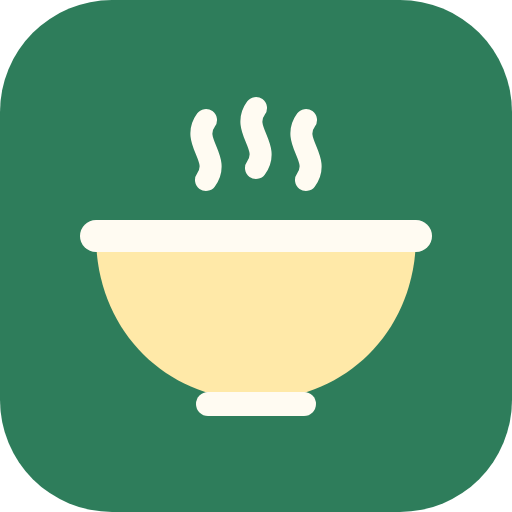
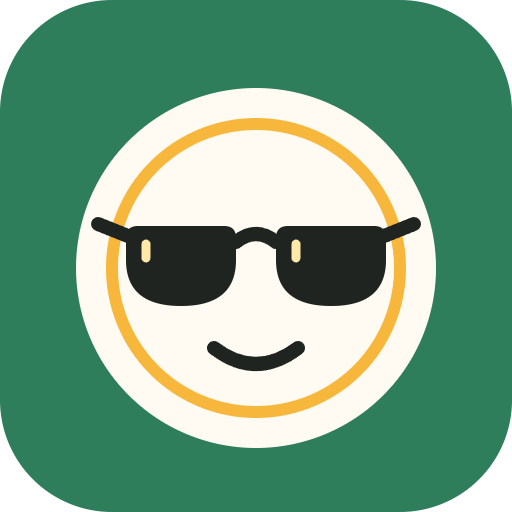
Applique le design system Coolmiam
- Jetons --border-strong, --brand-soft, --sun, --on-danger ; contours des
  champs, boutons secondaires et pastilles de type en --border-strong
- Marque coolmiam-mark.svg dans l'en-tête
- Nouveau logo : icônes PWA régénérées depuis docs/design/logo/coolmiam-icon.svg
- Ajout de docs/design (design system, logos) et section Design dans CLAUDE.md

diff --git a/src/styles.css b/src/styles.css
@@ -6,6 +6,10 @@
   --primary: #2e7d5b;
   --primary-text: #ffffff;
   --border: #cfd6d1;
+  --border-strong: #7a8780;
+  --brand-soft: #e8f3ee;
+  --sun: #f6b73c;
+  --on-danger: #ffffff;
   --danger: #c62828;
   --extra: #d32f2f;
   --focus: #1565c0;
@@ -82,6 +86,19 @@ body {
   letter-spacing: 0.02em;
 }
 
+.app-header__brand {
+  display: flex;
+  align-items: center;
+  gap: 8px;
+}
+
+.app-header__logo {
+  display: block;
+  width: 30px;
+  height: 30px;
+  flex: none;
+}
+
 .app-main {
   flex: 1;
   min-height: 0;
@@ -127,7 +144,7 @@ body {
   min-height: 44px;
   min-width: 44px;
   padding: 10px 18px;
-  border: 2px solid var(--border);
+  border: 2px solid var(--border-strong);
   border-radius: var(--radius);
   background: var(--surface);
   color: var(--text);
@@ -151,7 +168,7 @@ body {
 .btn--danger {
   background: var(--danger);
   border-color: var(--danger);
-  color: #ffffff;
+  color: var(--on-danger);
 }
 
 .btn--block {
@@ -384,7 +401,7 @@ button.meal-card {
   width: 100%;
   min-height: 44px;
   padding: 10px 12px;
-  border: 2px solid var(--border);
+  border: 2px solid var(--border-strong);
   border-radius: 10px;
   background: var(--surface);
   color: var(--text);
@@ -428,7 +445,7 @@ button.meal-card {
   align-items: center;
   min-height: 44px;
   padding: 8px 16px;
-  border: 3px solid transparent;
+  border: 3px solid var(--border-strong);
   border-radius: 999px;
   font-weight: 600;
   cursor: pointer;
@@ -565,7 +582,7 @@ button.meal-card {
   padding: 12px;
   border-left: 4px solid var(--primary);
   border-radius: 6px;
-  background: #e8f3ee;
+  background: var(--brand-soft);
 }
 
 /* ---------- Réglages ---------- */
@@ -600,7 +617,7 @@ button.meal-card {
   width: 56px;
   height: 44px;
   padding: 2px;
-  border: 2px solid var(--border);
+  border: 2px solid var(--border-strong);
   border-radius: 10px;
   background: var(--surface);
   cursor: pointer;

diff --git a/src/App.tsx b/src/App.tsx
@@ -36,7 +36,16 @@ export function App() {
   return (
     <div class="app">
       <header class="app-header">
-        <h1>Coolmiam</h1>
+        <div class="app-header__brand">
+          <img
+            class="app-header__logo"
+            src={`${import.meta.env.BASE_URL}coolmiam-mark.svg`}
+            alt=""
+            width="30"
+            height="30"
+          />
+          <h1>Coolmiam</h1>
+        </div>
       </header>
       <main class="app-main">
         {form ? (

diff --git a/docs/design/design-system.md b/docs/design/design-system.md
@@ -1,0 +1,108 @@
+# Design system Coolmiam - passation pour l'implémentation
+
+Source : design system Coolmiam (artefact Claude, 06/10/2026). Ce document est la référence visuelle pour toute modification d'interface. Il ne modifie aucun comportement fonctionnel défini dans `docs/specification.md`.
+
+## Principes
+
+- Interface calme, lisible, sans décoration superflue ; zones tactiles d'au moins 44px.
+- Le vert `brand` porte l'identité (en-tête, bouton principal, bouton d'ajout, onglet actif). Le jaune `sun` est réservé au logo et ne porte jamais de texte ni d'information.
+- Le type de repas se distingue par la teinte, mais le libellé du type reste toujours écrit. Un repas extra est signalé par le contour et le mot "EXTRA", jamais par la couleur seule.
+- Aucun émoji. Icônes SVG en trait (24px, contour 2px, `currentColor`) déjà présentes dans `src/ui/icons.tsx`.
+- Texte en français, apostrophes droites, ton direct et factuel.
+
+## Jetons de couleur
+
+| Jeton | Clair | Sombre | Usage |
+| --- | --- | --- | --- |
+| `bg` | #FFFBF2 | #14201A | Fond de page de l'application, derrière les écrans Journal, Export et Réglages. |
+| `surface` | #FFFFFF | #1D2B24 | Bandeau de date, barre d'onglets, champs, boîtes de dialogue et cartes de résultat. Texte `ink` et `ink-muted` dessus. |
+| `brand-soft` | #E8F3EE | #243A2F | Fond des encadrés d'information (`.notice`). Texte `ink` dessus. |
+| `ink` | #1F2421 | #F2EFE6 | Texte principal sur `bg`, `surface` et `brand-soft`. |
+| `ink-muted` | #4F5A54 | #B3C0B8 | Texte secondaire (aides, compteurs, libellés d'onglets inactifs) sur `bg` et `surface`. |
+| `brand` | #2E7D5B | #6CCB9C | Vert Coolmiam : en-tête, boutons principaux, bouton d'ajout, onglet actif. Texte `on-brand` dessus ; en texte ou icône sur `bg` et `surface`. |
+| `on-brand` | #FFFFFF | #0E2519 | Texte et icônes posées sur `brand`. |
+| `sun` | #F6B73C | #F6B73C | Jaune soleil du logo et touches décoratives (anneau de l'assiette). Jamais pour du texte ni comme seul porteur de sens. |
+| `border` | #CFD6D1 | #33453B | Filets décoratifs entre zones (bandeau de date, barre d'onglets). Ne suffit pas pour délimiter un champ : utiliser `border-strong`. |
+| `border-strong` | #7A8780 | #7F9188 | Contour des champs, boutons secondaires et sélecteurs (au moins 3:1 sur `bg` et `surface`). |
+| `danger` | #C62828 | #FF8A80 | Actions destructives, messages d'erreur. Texte `on-danger` sur fond `danger`. |
+| `on-danger` | #FFFFFF | #2B0A0A | Texte posé sur un fond `danger`. |
+| `extra` | #D32F2F | #FF8A80 | Contour et pastille EXTRA des repas hors cadre. Valeur fixe de la spécification, non modifiable par l'utilisateur. |
+| `focus` | #1565C0 | #8AB4F8 | Anneau de focus de 3px, visible sur `bg` et `surface`. |
+| `meal-breakfast` | #FFE9A8 | #FFE9A8 | Fond par défaut des repas de type Petit-déjeuner (modifiable dans Réglages). Texte `on-meal`. |
+| `meal-lunch` | #BFE3C0 | #BFE3C0 | Fond par défaut des repas de type Déjeuner. Texte `on-meal`. |
+| `meal-snack` | #D9C8F0 | #D9C8F0 | Fond par défaut des repas de type Collation. Texte `on-meal`. |
+| `meal-dinner` | #B9D7F2 | #B9D7F2 | Fond par défaut des repas de type Dîner. Texte `on-meal`. |
+| `meal-other` | #E0E0E0 | #E0E0E0 | Fond par défaut des repas de type Autre. Texte `on-meal`. |
+| `on-meal` | #000000 | #000000 | Texte sur les fonds de repas par défaut (noir ou blanc selon le meilleur contraste, calculé par l'application pour les couleurs personnalisées). |
+
+Correspondance avec les variables CSS actuelles de `src/styles.css` : `--bg` = `bg`, `--surface` = `surface`, `--text` = `ink`, `--text-muted` = `ink-muted`, `--primary` = `brand`, `--primary-text` = `on-brand`, `--border` = `border`, `--danger` = `danger`, `--extra` = `extra`, `--focus` = `focus`. Les couleurs de repas restent gérées par `DEFAULT_TYPE_COLORS` dans `src/domain/types.ts` (valeurs identiques aux jetons `meal-*`).
+
+Nouveaux jetons à ajouter : `--border-strong`, `--brand-soft`, `--sun`, `--on-danger`.
+
+## Typographie
+
+Police système (aucune police à télécharger, application utilisable hors ligne) : `system-ui, -apple-system, "Segoe UI", Roboto, "Helvetica Neue", Arial, sans-serif`.
+
+| Style | Taille / interligne | Graisse | Usage |
+| --- | --- | --- | --- |
+| `app-title` | 20px / 28px | 700 | Nom de l'application dans l'en-tête vert. |
+| `screen-title` | 21px / 29px | 700 | Titre d'un écran (Export, Réglages, formulaire). |
+| `section-title` | 17px / 24px | 700 | Titre de section dans un écran. |
+| `body` | 16px / 22px | 400 | Texte courant, description des repas. |
+| `label` | 16px / 22px | 600 | Libellés de champs, boutons, type et heure des repas. |
+| `small` | 14px / 20px | 400 | Messages d'erreur, aides. |
+| `caption` | 13px / 18px | 600 | Libellés de la barre d'onglets, compteurs, pastille EXTRA. |
+
+## Espacements
+
+| Jeton | Valeur | Usage |
+| --- | --- | --- |
+| `space-1` | 4px | Écart minimal entre icône et libellé. |
+| `space-2` | 8px | Écart entre pastilles, padding vertical du bandeau. |
+| `space-3` | 12px | Écart entre cartes de repas, padding des cartes. |
+| `space-4` | 16px | Marge latérale des écrans, écart standard. |
+| `space-5` | 24px | Écart entre sections. |
+| `space-6` | 32px | Grand espacement vertical, états vides. |
+
+## Rayons
+
+| Jeton | Valeur | Usage |
+| --- | --- | --- |
+| `radius-sm` | 6px | Pastille EXTRA, focus du sélecteur de date. |
+| `radius-input` | 10px | Champs de saisie, aperçu de couleur. |
+| `radius-md` | 12px | Boutons, cartes de repas, blocs de résultat. |
+| `radius-lg` | 16px | Boîtes de dialogue. |
+| `radius-pill` | 999px | Pastilles de type de repas, bouton d'ajout rond. |
+
+## Ombres
+
+| Jeton | Valeur | Usage |
+| --- | --- | --- |
+| `shadow-card` | 0 1px 3px rgba(0, 0, 0, 0.12) | Cartes de repas. |
+| `shadow-fab` | 0 4px 12px rgba(0, 0, 0, 0.25) | Bouton d'ajout flottant. |
+
+## Logo
+
+Assiette (disque crème, anneau jaune) portant des lunettes de soleil et un sourire.
+
+- `docs/design/logo/coolmiam-icon.svg` : fond vert à coins arrondis. Sert de `public/favicon.svg` et de source pour les icônes PWA (192, 512, maskable 512, apple-touch-icon).
+- `docs/design/logo/coolmiam-mark.svg` : assiette seule avec contour vert, pour l'en-tête et les fonds clairs.
+- Marge de protection : un quart de la largeur. Taille minimale : 24px. Ne pas déformer, recolorier ni ajouter de texte dans l'image.
+- Le nom "Coolmiam" s'écrit en texte (`app-title`) à côté de la marque, jamais dans l'image.
+- Les SVG sont multicolores : les afficher par `<img>`, pas en ligne avec `currentColor`.
+- Version maskable : la source doit occuper tout le cadre. Générer le fond vert en pleine page et placer l'assiette dans la zone de sécurité centrale (80 % du cadre).
+
+## Changements demandés (périmètre de l'implémentation)
+
+1. Ajouter les nouveaux jetons dans `:root` de `src/styles.css` et les utiliser : contour des champs, des boutons secondaires et des pastilles de type en `--border-strong` (contraste d'au moins 3:1) ; `.notice` en `--brand-soft` ; texte du bouton danger en `--on-danger`. `--border` reste réservé aux filets décoratifs.
+2. En-tête (`.app-header`) : afficher `coolmiam-mark.svg` (28 à 32px, `alt=""`) devant le titre "Coolmiam". Fond vert et texte `on-brand` inchangés.
+3. Remplacer le logo : `public/favicon.svg` est déjà remplacé ; adapter `scripts/generate-icons.mjs` pour produire `icon-192.png`, `icon-512.png`, `icon-maskable-512.png` et `apple-touch-icon.png` à partir de `docs/design/logo/coolmiam-icon.svg`.
+4. Vérifier `theme_color` et `background_color` du manifeste PWA dans `vite.config.ts` : `#2E7D5B` et `#FFFBF2`.
+5. Thème sombre : proposition non validée, à n'implémenter qu'après confirmation de Ben (`@media (prefers-color-scheme: dark)`, `color-scheme: light dark`, valeurs de la colonne Sombre). Les couleurs de repas et `on-meal` restent identiques dans les deux thèmes.
+
+## Contraintes
+
+- Ne modifier ni la logique métier, ni la base de données, ni la mise en page PDF.
+- Conserver les `data-testid`, les `aria-*` et les sélecteurs renforcés `.type-picker .type-option` (voir `CLAUDE.md`).
+- Contraste d'au moins 4,5:1 pour le texte et 3:1 pour les contours, les icônes et l'anneau de focus.
+- Avant de conclure : `npm test`, `npm run test:e2e`, `npm run build`, puis contrôle visuel sur écran de 360px.

diff --git a/CLAUDE.md b/CLAUDE.md
@@ -50,3 +50,7 @@ GitHub Actions.
 
 Export/import JSON de sauvegarde (recommandé, stockage local seul), duplication d'un repas,
 repas favoris. Pas de comptes, synchronisation, calories, photos, statistiques.
+
+## Design
+
+Référence visuelle : `docs/design/design-system.md` (jetons, logo, changements demandés). La relire avant toute modification d'interface. Logos sources : `docs/design/logo/`. Le thème sombre est une proposition non validée.
